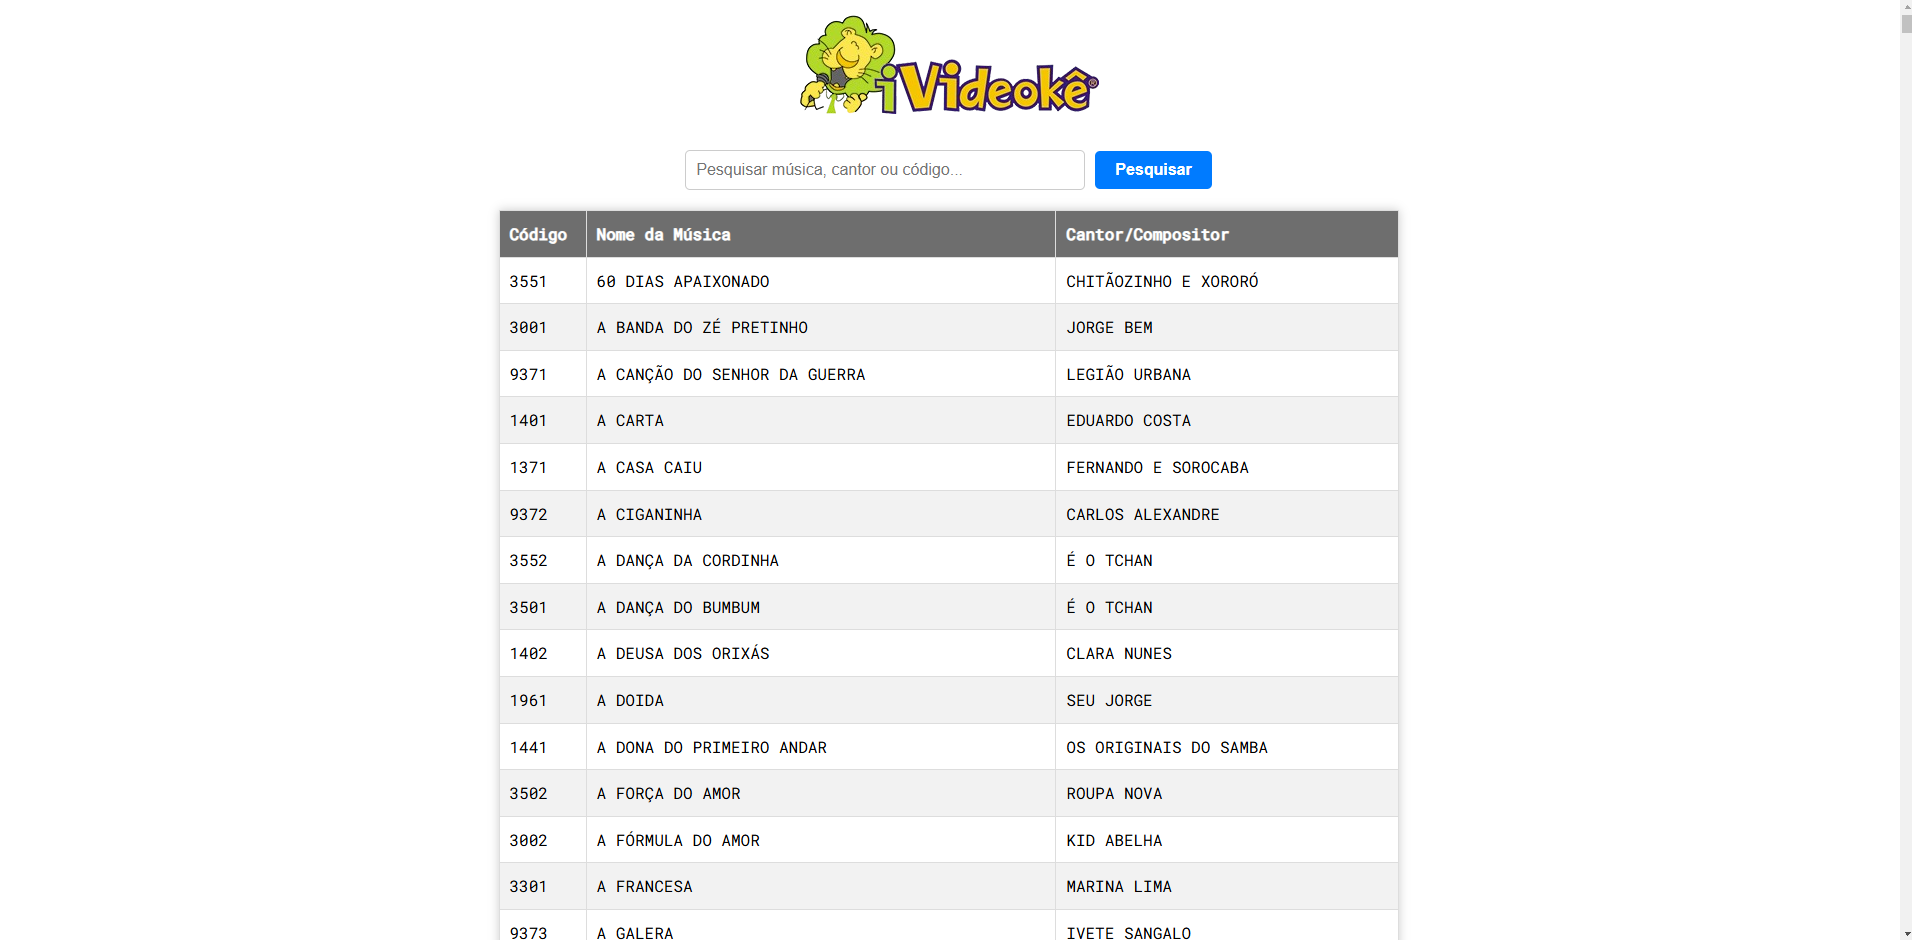
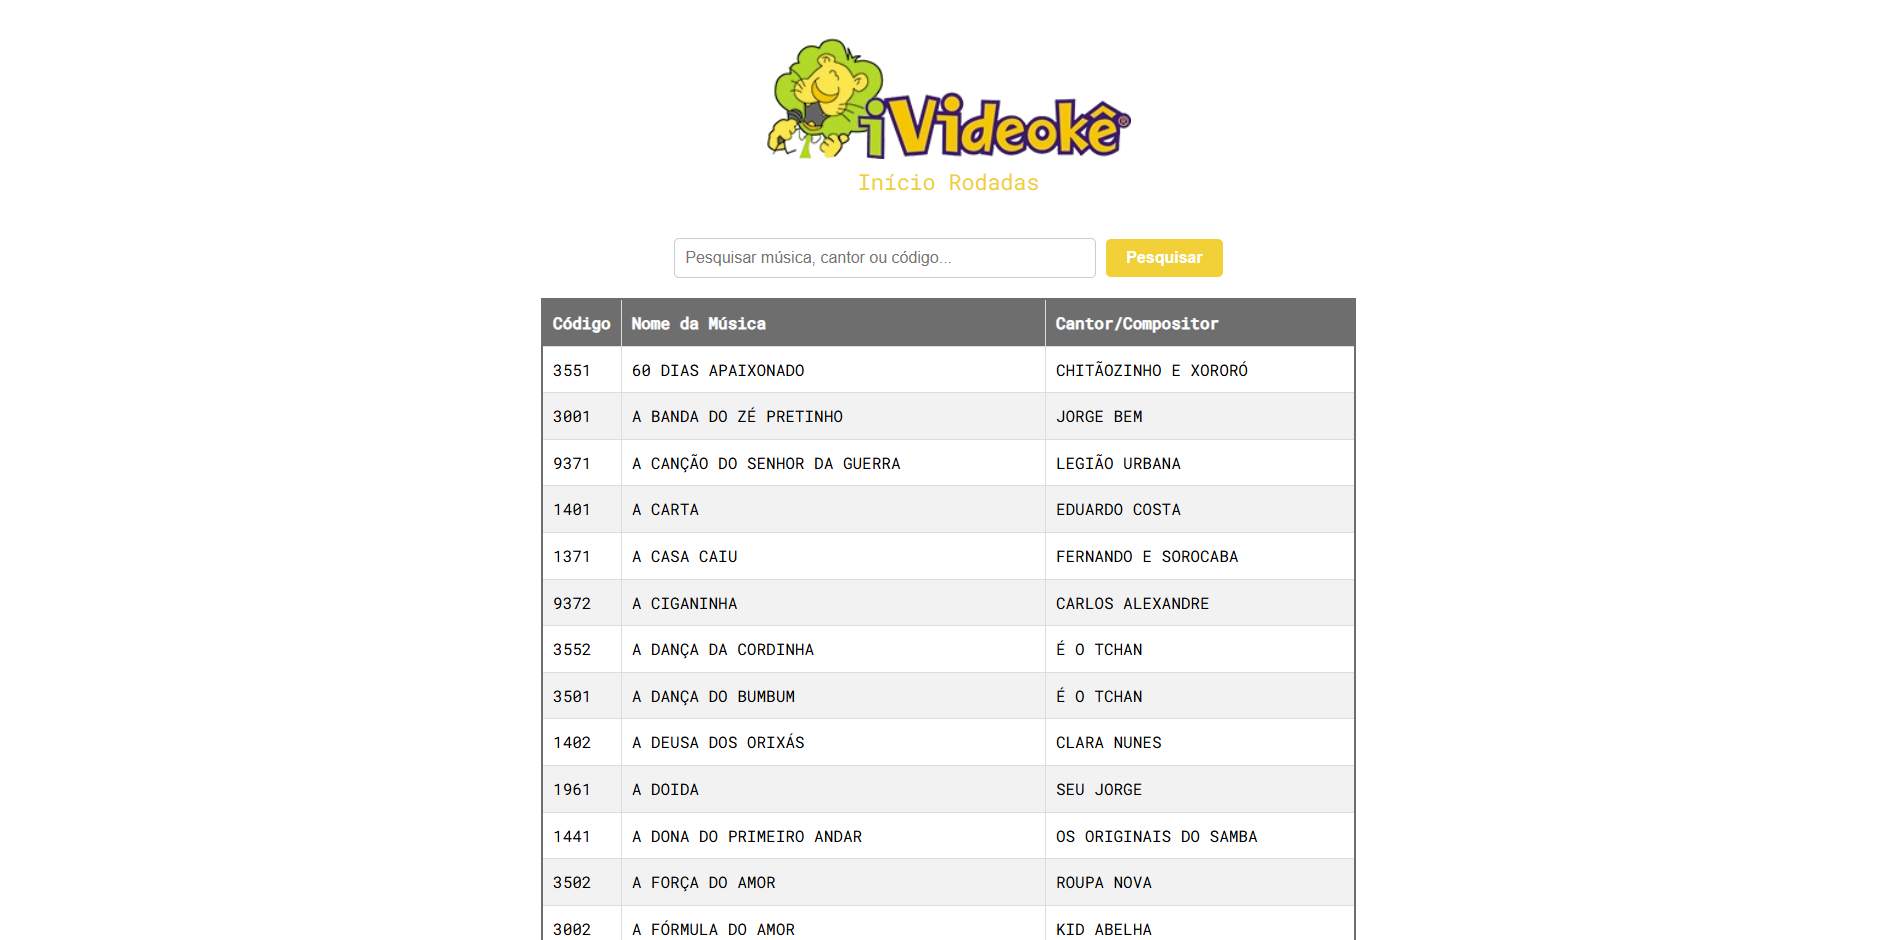
kkkk
kkkkk

diff --git a/index.html b/index.html
@@ -14,7 +14,7 @@
     <link rel="stylesheet" href="style.css">
 
     <!-- Define o ícone da página -->
-    <link rel="icon" href="img/Fabio_Guimarâes__1_-removebg-preview.png">
+    <link rel="icon" href="img/Logo principal.png">
 
     <!-- Inclui o arquivo de script JavaScript -->
     <script src="script.js"></script>
@@ -110,12 +110,12 @@
                 <div id="carousel">
 
                    <div id="card">
-                        <img src="img/LoginModavo.png" id="card-img">
+                        <img src="img/CardapioDigital.png" id="card-img">
 
                         <div id="card-corpo">
 
-                            <h5 id="card-titulo">Tela De Login Modavo</h5>
-                            <h5 id="card-texto">A tela de login foi desenvolvida como parte do projeto acadêmico do 3º semestre do curso de Análise e Desenvolvimento de Sistemas. O objetivo principal foi criar uma interface funcional e segura para o acesso ao sistema da CPaaS Modavo, oferecendo uma experiência intuitiva e eficiente para os usuários.</h5>
+                            <h5 id="card-titulo">Cardápio Digital</h5>
+                            <h5 id="card-texto">Este é o Cardápio Digital que desenvolvi para trazer uma solução inovadora para restaurantes e estabelecimentos que desejam oferecer uma experiência mais interativa e prática aos seus clientes. Este projeto permite aos clientes navegarem pelos itens do menu de forma prática, com visual moderno e responsivo. Criando uma experiência para os clientes.</h5>
                             <h5 id="card-conhecimentos">Html - Css - JavaScript</h5>
                             <div id="icons-card"> <i class="bi bi-github" onclick="redirecionarParaPagina6()"></i> <i class="bi bi-globe2" onclick="redirecionarParaPagina7()"></i> </div>
 
@@ -123,13 +123,13 @@
                     </div>
 
                     <div id="card">
-                        <img src="img/CadastroModavo.png" id="card-img">
+                        <img src="img/DGMKT.png" id="card-img">
 
                         <div id="card-corpo">
 
-                            <h5 id="card-titulo">Tela De Cadastro Modavo</h5>
-                            <h5 id="card-texto">A tela de cadastro foi desenvolvida como parte do projeto acadêmico do 3º semestre do curso de Análise e Desenvolvimento de Sistemas. O objetivo principal foi criar uma interface funcional e segura para o acesso ao sistema da CPaaS Modavo, oferecendo uma experiência intuitiva e eficiente para os usuários.</h5>
-                            <h5 id="card-conhecimentos">Html - Css - JavaScript - JQuery</h5>
+                            <h5 id="card-titulo">Landing Page DG Marketing</h5>
+                            <h5 id="card-texto">Este projeto foi desenvolvido para a agência DG Marketing, com o objetivo de contar sobre a empresa e seus serviços, mas claro sempre prezando pela usabilidade e seguindo as cores da marca do cliente. O cliente solicitou que os serviços fossem feitos em cards com um carrossel que se movimentasse de maneira automática.</h5>
+                            <h5 id="card-conhecimentos">Html - Css - JavaScript</h5>
                             <div id="icons-card"> <i class="bi bi-github" onclick="redirecionarParaPagina8()"></i> <i class="bi bi-globe2" onclick="redirecionarParaPagina9()"></i> </div>
 
                         </div>
@@ -141,7 +141,7 @@
                         <div id="card-corpo">
 
                             <h5 id="card-titulo">Catálago De Músicas Videokê</h5>
-                            <h5 id="card-texto">O Catálogo de Músicas Videokê foi desenvolvido com o objetivo de oferecer uma experiência prática, organizada e intuitiva na hora de escolher a música para cantar. Com um total de 1006 músicas, o catálogo apresenta a facilidade de buscar por nome da música, cantor/compositor ou código.</h5>
+                            <h5 id="card-texto">Este Catálogo de Músicas Videokê foi desenvolvido com o objetivo de oferecer uma experiência prática, organizada e intuitiva na hora de escolher a música para cantar. Com um total de 1006 músicas, o catálogo apresenta a facilidade de buscar por nome da música, cantor/compositor ou código. E também uma aba para você calcular sua nota por rodada.</h5>
                             <h5 id="card-conhecimentos">Html - Css - JavaScript</h5>
                             <div id="icons-card"> <i class="bi bi-github" onclick="redirecionarParaPagina10()"></i> <i class="bi bi-globe2" onclick="redirecionarParaPagina11()"></i> </div>
 
@@ -154,9 +154,22 @@
                         <div id="card-corpo">
 
                             <h5 id="card-titulo">Contagem Regressiva De Namoro</h5>
-                            <h5 id="card-texto">Este projeto especial foi desenvolvido com carinho e dedicação para marcar a contagem regressiva até o próximo aniversário de namoro. A aplicação apresenta um contador em tempo real, exibindo de forma clara e precisa os dias, horas, minutos e segundos restantes para a data tão aguardada todo ano.</h5>
+                            <h5 id="card-texto">Este projeto especial foi desenvolvido com carinho e dedicação para marcar a contagem regressiva até o próximo aniversário de namoro que iriamos fazer. A aplicação apresenta um contador em tempo real, exibindo de forma clara e precisa os dias, horas, minutos e segundos restantes para a data tão aguardada todo ano. Foi um presente de afeto que guardaa memorias nossas.</h5>
                             <h5 id="card-conhecimentos">Html - Css - JavaScript</h5>
                             <div id="icons-card"> <i class="bi bi-github" onclick="redirecionarParaPagina12()"></i> <i class="bi bi-globe2" onclick="redirecionarParaPagina13()"></i> </div>
+
+                        </div>
+                    </div>
+
+                    <div id="card">
+                        <img src="img/QRcode.png" id="card-img">
+
+                        <div id="card-corpo">
+
+                            <h5 id="card-titulo">Gerador De QRcode</h5>
+                            <h5 id="card-texto">Este projeto transforma qualquer texto, link ou informação em um QR Code personalizado em segundos! Esse gerador de QR Code é uma ferramenta intuitiva e eficiente, perfeita para compartilhamento rápido de dados, seja para negócios, eventos ou uso pessoal. Fiz com objetivo de facilitar funções no dia a dia e por isso optei também por um design simples.</h5>
+                            <h5 id="card-conhecimentos">Html - Css - JavaScript</h5>
+                            <div id="icons-card"> <i class="bi bi-github" onclick="redirecionarParaPagina15()"></i> <i class="bi bi-globe2" onclick="redirecionarParaPagina16()"></i> </div>
 
                         </div>
                     </div>

diff --git a/style.css b/style.css
@@ -33,19 +33,19 @@ body {
 }
 
 #texto-centro1 {
-    font-size: 40px;
+    font-size: 250%;
     text-align: justify;
 }
 
 #texto-centro2 {
-    font-size: 20px;
+    font-size: 150%;
     margin-top: 2px; 
     text-align: justify;
     display: inline-block;
     overflow: hidden;
     border-right: 2px solid #91C8E4;
     white-space: nowrap;
-    animation: typing 3s steps(30) 1s forwards, blink 0.75s step-end infinite; /* Aplica as animações */
+    animation: typing 3s steps(30) 1s forwards, blink 0.75s step-end infinite; 
 }
 
 nav {
@@ -65,7 +65,7 @@ nav a:hover {
 }
 
 #img-centro {
-    width: 500px;
+    width: 40%;
     position: relative;
     top: -160px;
 }
@@ -75,7 +75,7 @@ nav a:hover {
         width: 0;
     }
     to {
-        width: 71%;
+        width: 86%;
     }
 }
 
@@ -97,20 +97,20 @@ nav a:hover {
 }
 
 #img-eu {
-    width: 400px;
-    margin-right: 40px;
+    width: 30%;
+    margin-right: 3%;
     box-shadow: 10px 10px 20px rgba(0, 0, 0, 0.5);
 }
 
 #texto-sobre1 {
-    font-size: 40px;
+    font-size: 250%;
     text-align: justify;
 }
 
 #texto-sobre2 {
     text-align: justify;
-    font-size: 17px;
-    margin-top: 12px;
+    font-size: 110%;
+    margin-top: 2%;
     font-weight: normal;
 }
 
@@ -124,13 +124,12 @@ nav a:hover {
 }
 
 #texto-conhecimento1{
-    font-size: 40px;
+    font-size: 250%;
 }
 
 #texto-conhecimento2 {
     text-align: left;
-    margin-top: 20px;
-    width: 20px;
+    margin-top: 1%;
     padding: 10px;
     border-radius: 5px;
     flex: 0 0 30%;
@@ -146,7 +145,7 @@ nav a:hover {
     flex-wrap: wrap;
     justify-content: space-between; 
     gap: 20px; 
-    margin-top: 30px;
+    margin-top: 2%;
 }
 
 
@@ -157,10 +156,11 @@ nav a:hover {
     align-items: flex-start;
     margin: 15%;
     margin-bottom: 20%;
+    margin-top: 2%;
 }
 
 #Projetos #carousel-container {
-    width: 1350px; 
+    width: 100%; 
     overflow: hidden;
     margin: 0 auto;
     position: relative;
@@ -169,35 +169,34 @@ nav a:hover {
 #Projetos #carousel {
     display: flex;
     transition: transform 0.5s ease-in-out;
+    gap: 5px; 
 }
 
 #texto-projetos1{
-    font-size: 40px;
+    font-size: 250%;
 }
 
 #card {
-    margin-top: 30px;
-    margin-right: 5px;
-    flex: 0 0 337px;
-    width: 400px;
+    margin-top: 2%;
+    flex: 0 0 37%;
     border: 3px solid #000;
     border-radius: 20px;
 }
 
 #card-img {
-    width: 400px;
+    width: 100%;
     border-top-left-radius: 18px;
     border-top-right-radius: 18px;
 }
 
 #card-titulo {
-    font-size: 20px;
-    margin: 10px;
+    font-size: 100%;
+    margin: 3%;
 }
 
 #icons-card {
-    margin: 10px;
-    font-size: 20px;
+    margin: 3%;
+    font-size: 100%;
     text-align: end;
 }
 
@@ -207,17 +206,15 @@ nav a:hover {
 }
 
 #card-texto {
-    font-size: 15px;
-    margin: 10px;
-    margin-top: 20px;
+    font-size: 85%;
+    margin: 3%;
     text-align: justify;
     font-weight: normal;
 }
 
 #card-conhecimentos {
-    font-size: 15px;
-    margin: 10px;
-    margin-top: 20px;
+    font-size: 80%;
+    margin: 3%;
     text-align: justify;
     font-weight: normal;
 }
@@ -230,7 +227,7 @@ nav a:hover {
     color: white;
     border: none;
     cursor: pointer;
-    font-size: 18px;
+    font-size: 100%;
     z-index: 10;
     padding: 10px;
 }
@@ -254,13 +251,13 @@ nav a:hover {
 }
 
 #texto-contato1 {
-    font-size: 40px;
+    font-size: 250%;
     text-align: justify;
 }
 
 #texto-contato2 {
     text-align: justify;
-    font-size: 17px;
+    font-size: 110%;
     margin-top: 12px;
     font-weight: normal;
 }
@@ -287,7 +284,7 @@ nav a:hover {
     background: none;
     border: none;
     color: #ffffff;
-    font-size: 70px;
+    font-size: 500%;
     cursor: pointer;
     margin: 0 10px;
 }

diff --git a/script.js b/script.js
@@ -28,28 +28,28 @@ function redirecionarParaPagina5() {
     window.open("https://www.youtube.com/@dev_fabioguimaraes", "_blank");
 }
 
-// Função para redirecionar para o github login modavo
+// Função para redirecionar para o github cardapio digital
 function redirecionarParaPagina6() {
     // Redireciona para outra página
-    window.open("https://github.com/FabioHTGuimaraes/Tela-De-Login-Modavo", "_blank");
+    window.open("https://github.com/FabioHTGuimaraes/Cardapio-Digital", "_blank");
 }
 
-// Função para redirecionar para o site login modavo
+// Função para redirecionar para o site cardapio digital
 function redirecionarParaPagina7() {
     // Redireciona para outra página
-    window.open("https://tela-de-login-modavo.netlify.app", "_blank");
+    window.open("https://cardapiodigitalfg.netlify.app/", "_blank");
 }
 
-// Função para redirecionar para o github cadastro modavo
+// Função para redirecionar para o github dgmarketing
 function redirecionarParaPagina8() {
     // Redireciona para outra página
-    window.open("https://github.com/FabioHTGuimaraes/Tela-De-Cadastro-Modavo", "_blank");
+    window.open("https://github.com/FabioHTGuimaraes/AgenciaDGMarketing", "_blank");
 }
 
-// Função para redirecionar para o site cadastro modavo
+// Função para redirecionar para o site dgmarketing
 function redirecionarParaPagina9() {
     // Redireciona para outra página
-    window.open("https://tela-de-cadastro-modavo.netlify.app", "_blank");
+    window.open("https://agenciadgmarketing.netlify.app/", "_blank");
 }
 
 // Função para redirecionar para o github catalago de musicas videoke
@@ -61,7 +61,7 @@ function redirecionarParaPagina10() {
 // Função para redirecionar para o site catalago de musicas videoke
 function redirecionarParaPagina11() {
     // Redireciona para outra página
-    window.open("https://catalagovideokeguimaraes.netlify.app/", "_blank");
+    window.open("https://catalagovideoke.netlify.app/", "_blank");
 }
 
 // Função para redirecionar para o github Contagem Regressiva De Namoro
@@ -81,6 +81,19 @@ function redirecionarParaPagina14() {
     // Redireciona para outra página
     window.open("https://wa.me/5521966487406", "_blank");
 }
+
+// Função para redirecionar para o github qrcode
+function redirecionarParaPagina15() {
+    // Redireciona para outra página
+    window.open("https://github.com/FabioHTGuimaraes/Gerador-QrCode", "_blank");
+}
+
+// Função para redirecionar para o site qrcode
+function redirecionarParaPagina16() {
+    // Redireciona para outra página
+    window.open("https://geradorqrcodefg.netlify.app/", "_blank");
+}
+
 
 
 
